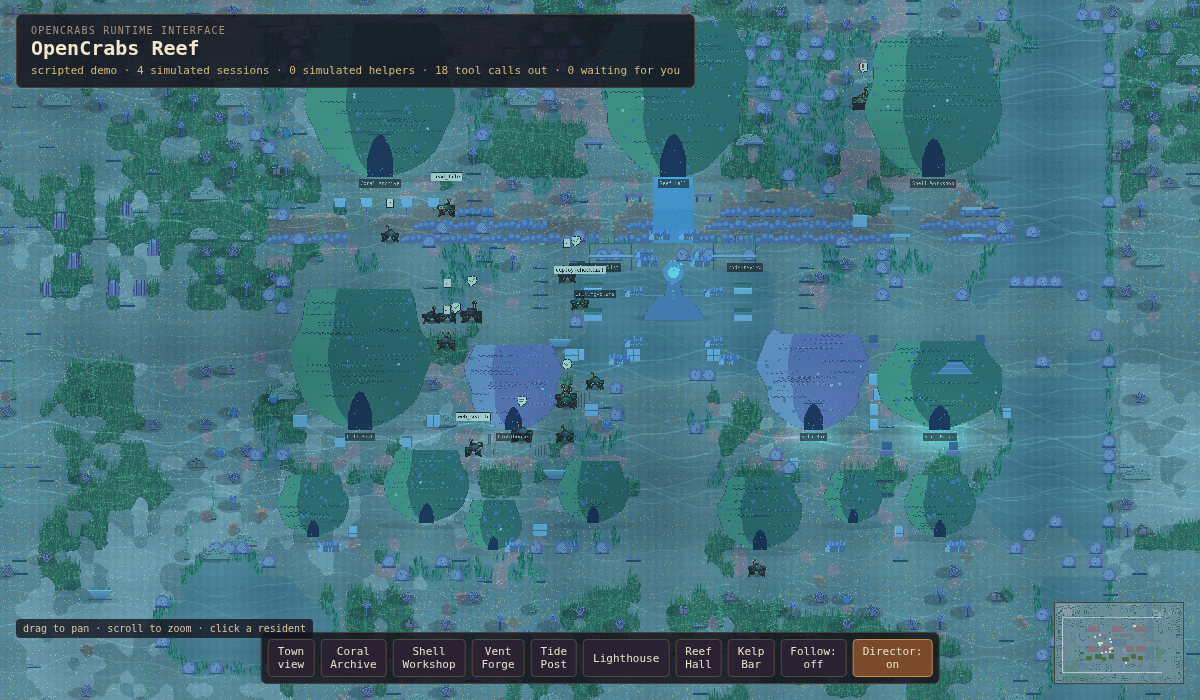
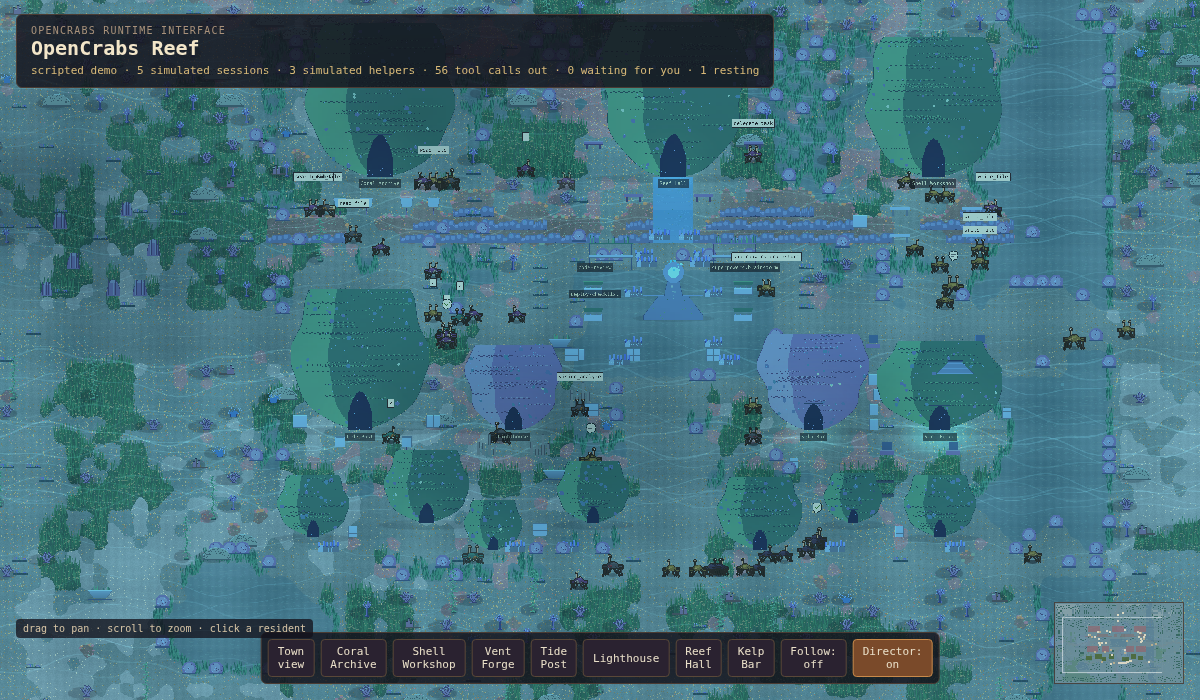
Brighten the pincers so they separate from the shell at 32px

diff --git a/src/art/characters.ts b/src/art/characters.ts
@@ -328,16 +328,20 @@ function drawFrame(look: Look, facing: Facing, mode: Mode, phase: number): Paint
   const legs = (dir: number, far: boolean) => {
     // Legs are chitin, not cloth: their tone is derived from the shell so they
     // read as this creature's limbs. Flat charcoal against a bright carapace
-    // read as trousers, and legs hanging straight down read as a skirt, so the
-    // spread is wide and the drop shallow.
+    // read as trousers, and legs hanging straight down read as a skirt.
     const near = shade(shell, 0.58), joint = shade(shell, 0.86), tip = shade(shell, 0.4);
+    // Three limbs a side, each on its own hip, own reach and own landing. Three
+    // legs sharing one hip and one stride stacked into a single thick limb at
+    // 32px, which read as a biped with a splayed foot. Spreading the hips 3px
+    // apart down the flank and shortening the rear reach is what makes the
+    // bank read as three separate walking legs.
     for (let i = 0; i < 3; i++) {
       const lift = (walking && (i + phase + (dir > 0 ? 1 : 0)) % 2 === 0 ? 1 : 0) + (sitting ? 2 : 0);
       const col = far ? shade(shell, 0.4) : near;
       const hipX = dir < 0 ? 5 : 14;
-      const hipY = 19 + i + baseY;
-      const kneeX = hipX + dir * (4 + i), kneeY = hipY + 1 - lift;
-      const footX = hipX + dir * (6 + i), footY = hipY + 4 + oy - lift;
+      const hipY = 18 + i * 3 + baseY;
+      const kneeX = hipX + dir * (4 - i), kneeY = hipY + 2 - lift;
+      const footX = hipX + dir * (7 - i * 2), footY = hipY + 5 + oy - lift;
       stroke({ x: hipX, y: hipY }, { x: kneeX, y: kneeY }, col, 1);
       stroke({ x: kneeX, y: kneeY }, { x: footX, y: footY }, far ? col : tip, 1);
       px(kneeX, kneeY, far ? col : joint);
@@ -346,21 +350,27 @@ function drawFrame(look: Look, facing: Facing, mode: Mode, phase: number): Paint
   };
 
   const claw = (root: Point, tip: Point, dir: number, far: boolean) => {
-    const col = far ? shade(shell, 0.5) : shell;
-    const lite = far ? col : shade(shell, 1.2);
-    stroke(root, tip, col, 2);
-    // The pincer is the whole crab read, so it is the widest part of the
-    // silhouette and it sits outboard of the carapace. Bounds keep every pose
-    // inside the frame with a transparent gutter on all four sides.
-    const px0 = dir > 0 ? Math.min(tip.x, 16) : Math.max(tip.x - 6, -4);
-    const py0 = tip.y - 2;
-    rect(px0, py0, 7, 6, INK);
-    // Two prongs with an open notch between them. A single block reads as a
-    // mitten or a vent; the dark gap is what makes it a pincer.
-    rect(px0 + 1, py0 + 1, 5, 2, col);
-    rect(px0 + 1, py0 + 4, 5, 1, col);
-    rect(px0 + 1, py0 + 1, 3, 1, lite);
-    rect(dir > 0 ? px0 : px0 + 6, py0 + 3, 1, 1, col);
+    // A pincer in the shell's own hue reads as a lobe of the carapace at 32px.
+    // The marking tone is warm against the cool shell, so the claw separates
+    // without needing a heavier outline.
+    const col = far ? shade(mark, 0.6) : mark;
+    const lite = far ? shade(mark, 0.85) : shade(mark, 1.35);
+    // 2px arm so the limb has a joint read against the palm.
+    stroke(root, tip, far ? shade(mark, 0.45) : shade(mark, 0.8), 2);
+    // The palm has to clear the carapace rim (screen x9..22) or it lands on the
+    // shell and reads as part of it. Local x -5 maps to screen x1, which keeps
+    // the whole pincer outboard and still leaves the x0 gutter clear.
+    const px0 = dir > 0 ? Math.min(tip.x - 1, 23) : Math.max(tip.x - 7, -5);
+    const py0 = tip.y - 3;
+    // Two fingers with a real transparent mouth between them. A solid block
+    // with a dark middle row reads as a mitten or a vent, not a pincer.
+    rect(px0, py0, 7, 3, INK);
+    rect(px0 + 1, py0 + 1, 5, 1, col);
+    rect(px0, py0 + 4, 7, 3, INK);
+    rect(px0 + 1, py0 + 5, 5, 1, col);
+    // Row py0+3 stays untouched: that is the open mouth of the pincer.
+    rect(dir > 0 ? px0 : px0 + 6, py0 + 1, 1, 5, col);
+    px(px0 + 2, py0 + 1, lite);
   };
 
   // The pincer jaw that closes over a held prop, so nothing floats free.
@@ -389,7 +399,9 @@ function drawFrame(look: Look, facing: Facing, mode: Mode, phase: number): Paint
   // A pincer has to clear the carapace or it reads as a lump on the shell, so
   // the tip is pushed out past the rim. Work poses keep their authored grip.
   const splay = (tip: Point, dir: number): Point =>
-    ({ x: dir > 0 ? Math.max(tip.x, 19) : Math.min(tip.x, 0), y: tip.y });
+    // Claws ride above the leg bank. Level with the legs they merge into one
+    // wide bar across the frame instead of reading as pincers held out.
+    ({ x: dir > 0 ? Math.max(tip.x, 19) : Math.min(tip.x, 0), y: tip.y - 3 });
   // Far limbs, then the shell, then the near limbs: the carapace occludes the
   // far legs, and the near claw ends up in front of everything it should.
   if (side) { legs(1, true); claw({ x: 14, y: 16 + baseY }, splay(handR, 1), 1, true); }
